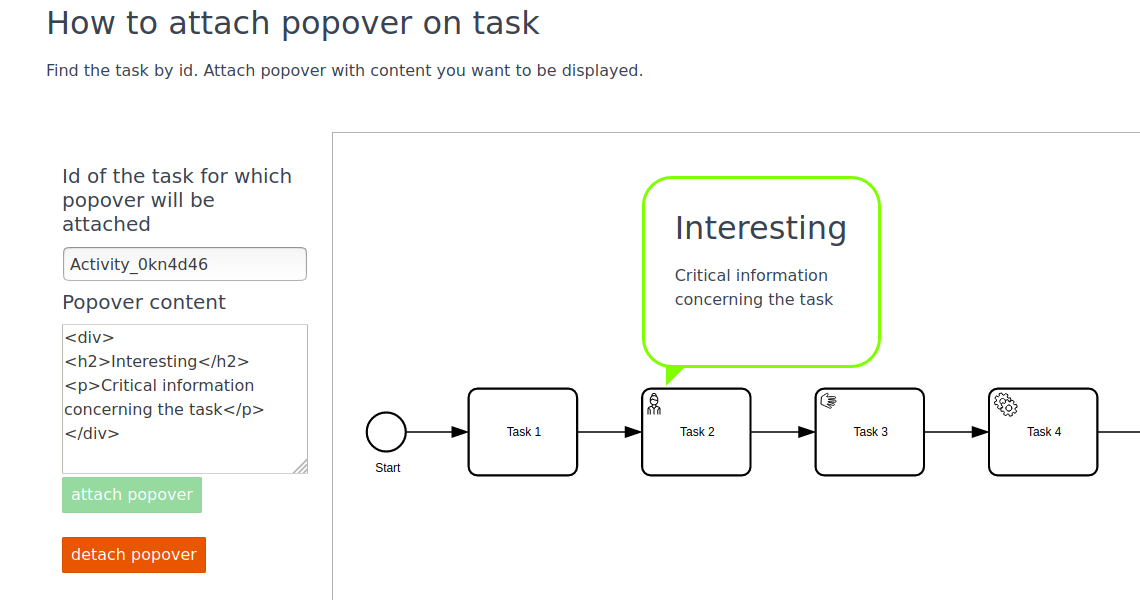
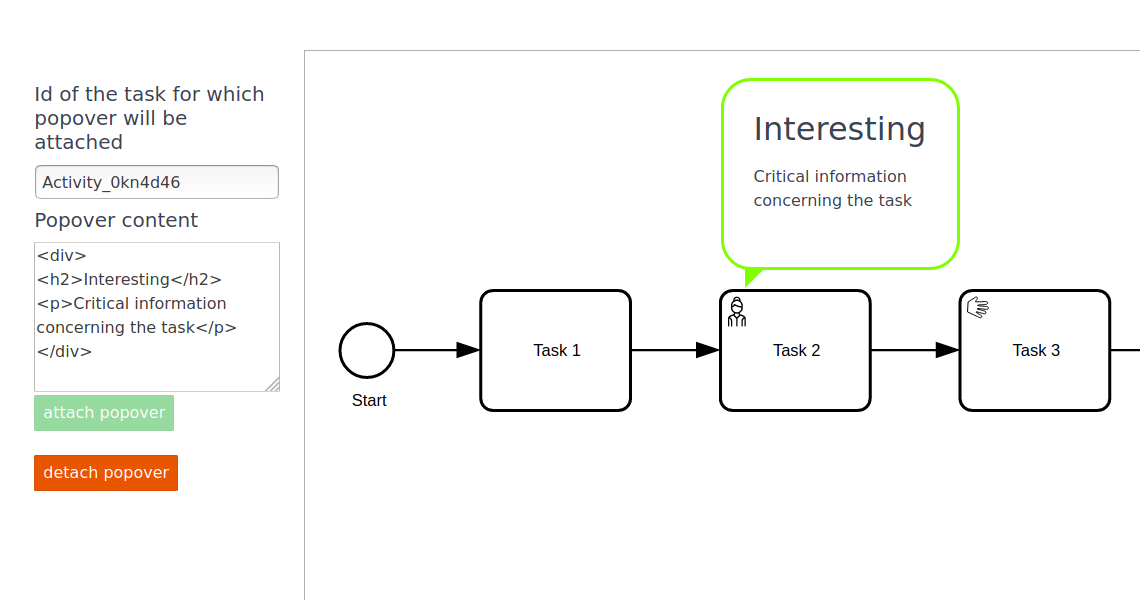
[FIX] custom-interaction popover example fixes
- wrong link to example
  - remove extra 'custom-animation' section
  - fix popover example preview: remove text for consistency
  with other previews
  - wrong link to example README in the main README

diff --git a/examples/index.html b/examples/index.html
@@ -484,7 +484,7 @@ limitations under the License.
                 <h2 class="bg-dark">Custom interaction</h2>
                 <div class="columns">
                     <div class="col-4 p-2">
-                        <a href="custom-interaction/popover/index.html" target="_blank" class="card-link">
+                        <a href="custom-interaction/popover-static/index.html" target="_blank" class="card-link">
                             <div class="card p-2">
                                 <div class="card-header">
                                     <div class="card-title">Popover</div>
@@ -494,28 +494,6 @@ limitations under the License.
                                     <img src="static/img/preview/custom-interaction/popover.png" class="img-responsive" alt="popover">
                                 </div>
                                 <div class="card-body">Attach a popover to the task</div>
-                                <div class="card-footer"></div>
-                            </div>
-                        </a>
-                    </div>
-                </div>
-            </section>
-
-            <section class="col-12 mt-2 mb-2">
-                <a id="custom-animation" class="anchor-from-summary"></a>
-                <h2 class="bg-dark">Custom animation</h2>
-                <div class="columns">
-                    <div class="col-4 p-2">
-                        <a href="custom-animation/running-dashed-message-flow/index.html" target="_blank" class="card-link">
-                            <div class="card p-2">
-                                <div class="card-header">
-                                    <div class="card-title">Running Dashed Message Flow</div>
-                                    <div class="card-subtitle"></div>
-                                </div>
-                                <div class="card-image">
-                                    <img src="static/img/preview/custom-animation/running_dashed_message_flow.gif" class="img-responsive" alt="running dashed message flow">
-                                </div>
-                                <div class="card-body">Add custom running dashed animation on a Message Flow</div>
                                 <div class="card-footer"></div>
                             </div>
                         </a>

diff --git a/README.md b/README.md
@@ -93,7 +93,7 @@ Custom BPMN Theme features will be progressively added to `bpmn-visualization`. 
 
 ### Custom interaction examples
 
-- [Add a popover on a BPMN element](examples/custom-interaction/popover/README.md) - add a popover with information to the task found by it's id
+- [Add a popover on a BPMN element](examples/custom-interaction/popover-static/README.md) - add a popover with information to the task found by it's id
 
 ### Miscellaneous examples
 